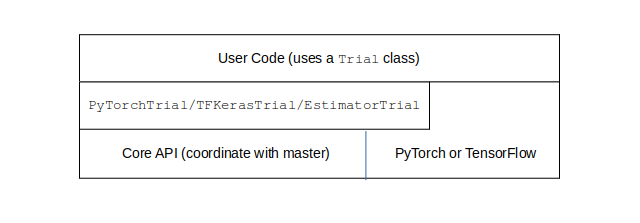
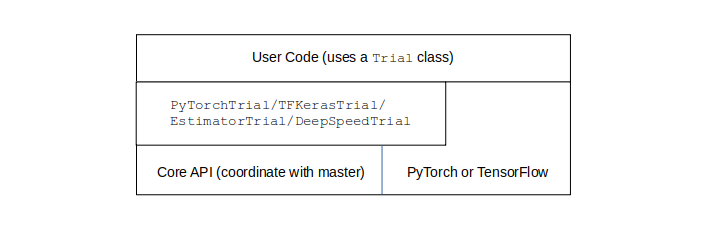
docs: add deepspeedtrial to arch09 image

diff --git a/docs/architecture/index.rst b/docs/architecture/index.rst
@@ -52,9 +52,11 @@ Master and Agent Nodes
 ======================
 
 Determined comprises a single *master* and one or more *agents* in a cluster environment. The master
-is a single, non-GPU node that manages the cluster and keeps experiment metadata in a PostgreSQL database
+is a single, non-GPU node that manages the cluster and keeps experiment metadata in a PostgreSQL
+database
 
-You can interact directly with the master using the WebUI or CLI. The master alone communicates with agents as needed.
+You can interact directly with the master using the WebUI or CLI. The master alone communicates with
+agents as needed.
 
 Master Node Scope of Responsibility
 -----------------------------------
@@ -107,14 +109,18 @@ PostgreSQL Database
 
 Each cluster requires access to a `PostgreSQL <https://www.postgresql.org/>`_ database to store
 experiment and trial metadata. Although not required, the database typically resides on the master.
-When you use the ``det deploy`` command, Determined prepares a PostgreSQL instance for you. Otherwise, you need to manually install PostgreSQL.
+When you use the ``det deploy`` command, Determined prepares a PostgreSQL instance for you.
+Otherwise, you need to manually install PostgreSQL.
 
 Docker Images
 =============
 
-Determined launches workloads using `Docker <https://www.docker.com/>`_ containers. Determined provides a default container that includes common deep learning libraries and frameworks.
+Determined launches workloads using `Docker <https://www.docker.com/>`_ containers. Determined
+provides a default container that includes common deep learning libraries and frameworks.
 
-If you use the ``det deploy aws`` or ``det deploy gcp`` command on a cloud provider, Docker is preinstalled. For a manual or on-premises deployment using ``det deploy local``, you need to manually install Docker.
+If you use the ``det deploy aws`` or ``det deploy gcp`` command on a cloud provider, Docker is
+preinstalled. For a manual or on-premises deployment using ``det deploy local``, you need to
+manually install Docker.
 
 *******************
  Design Principles
